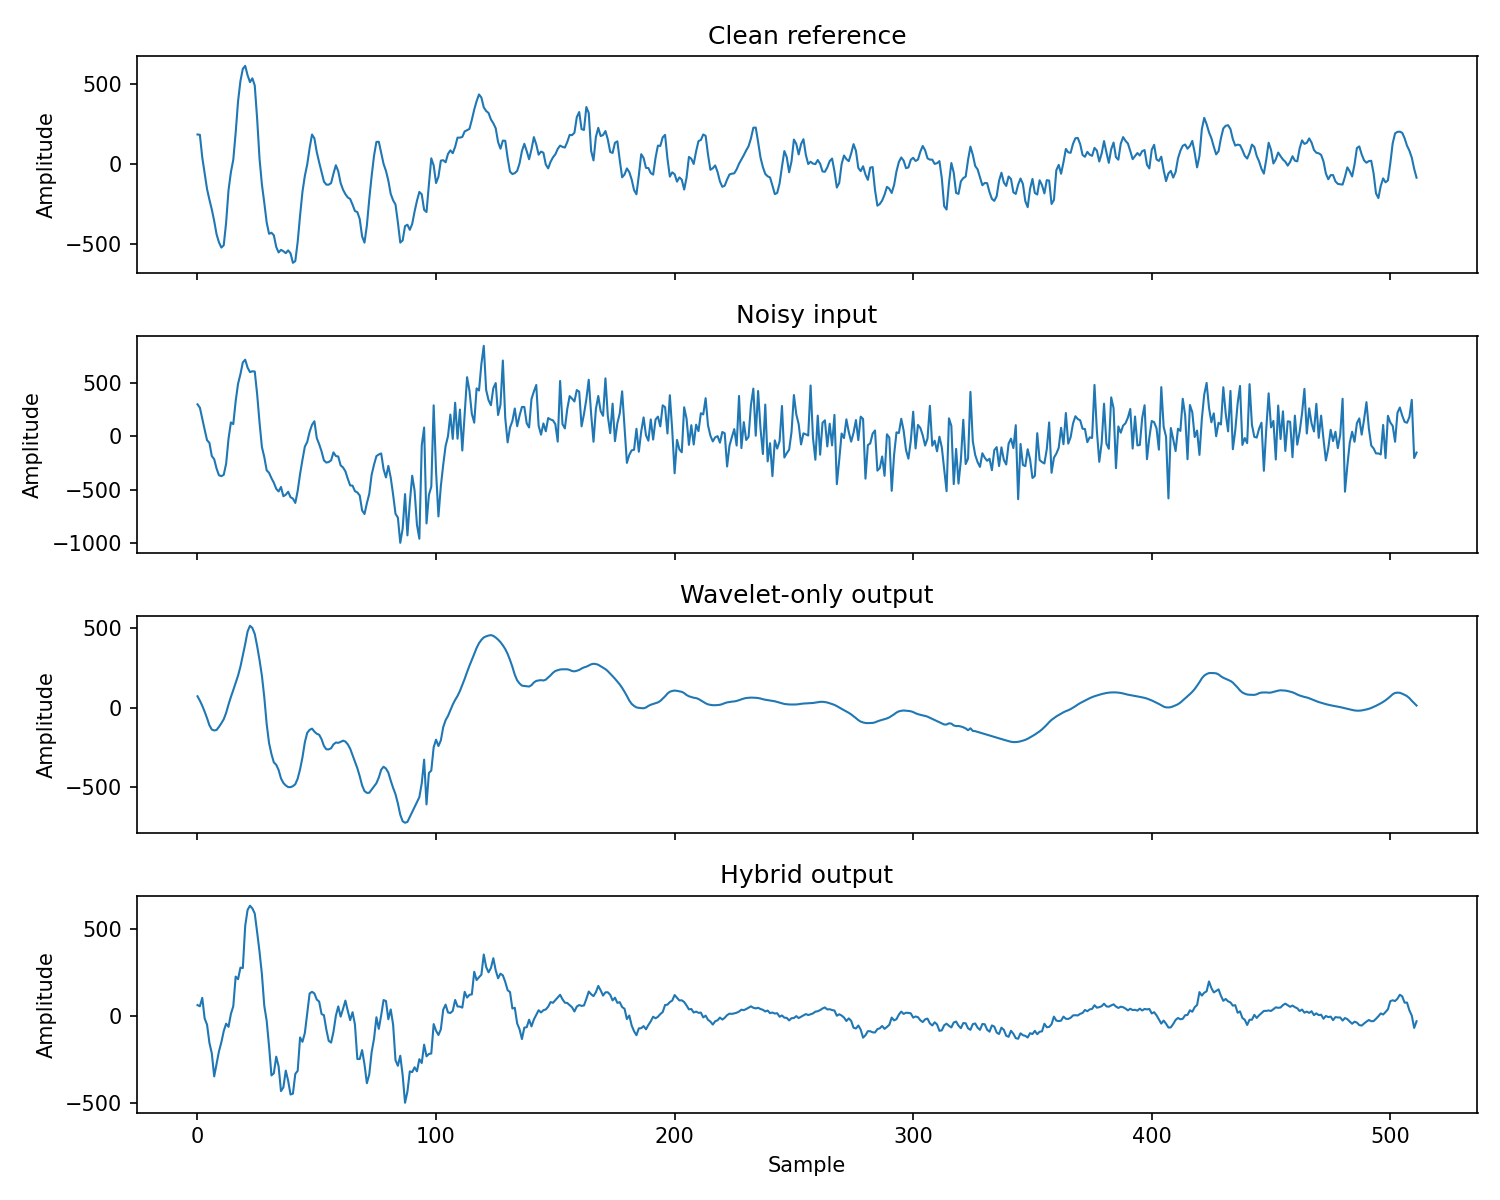
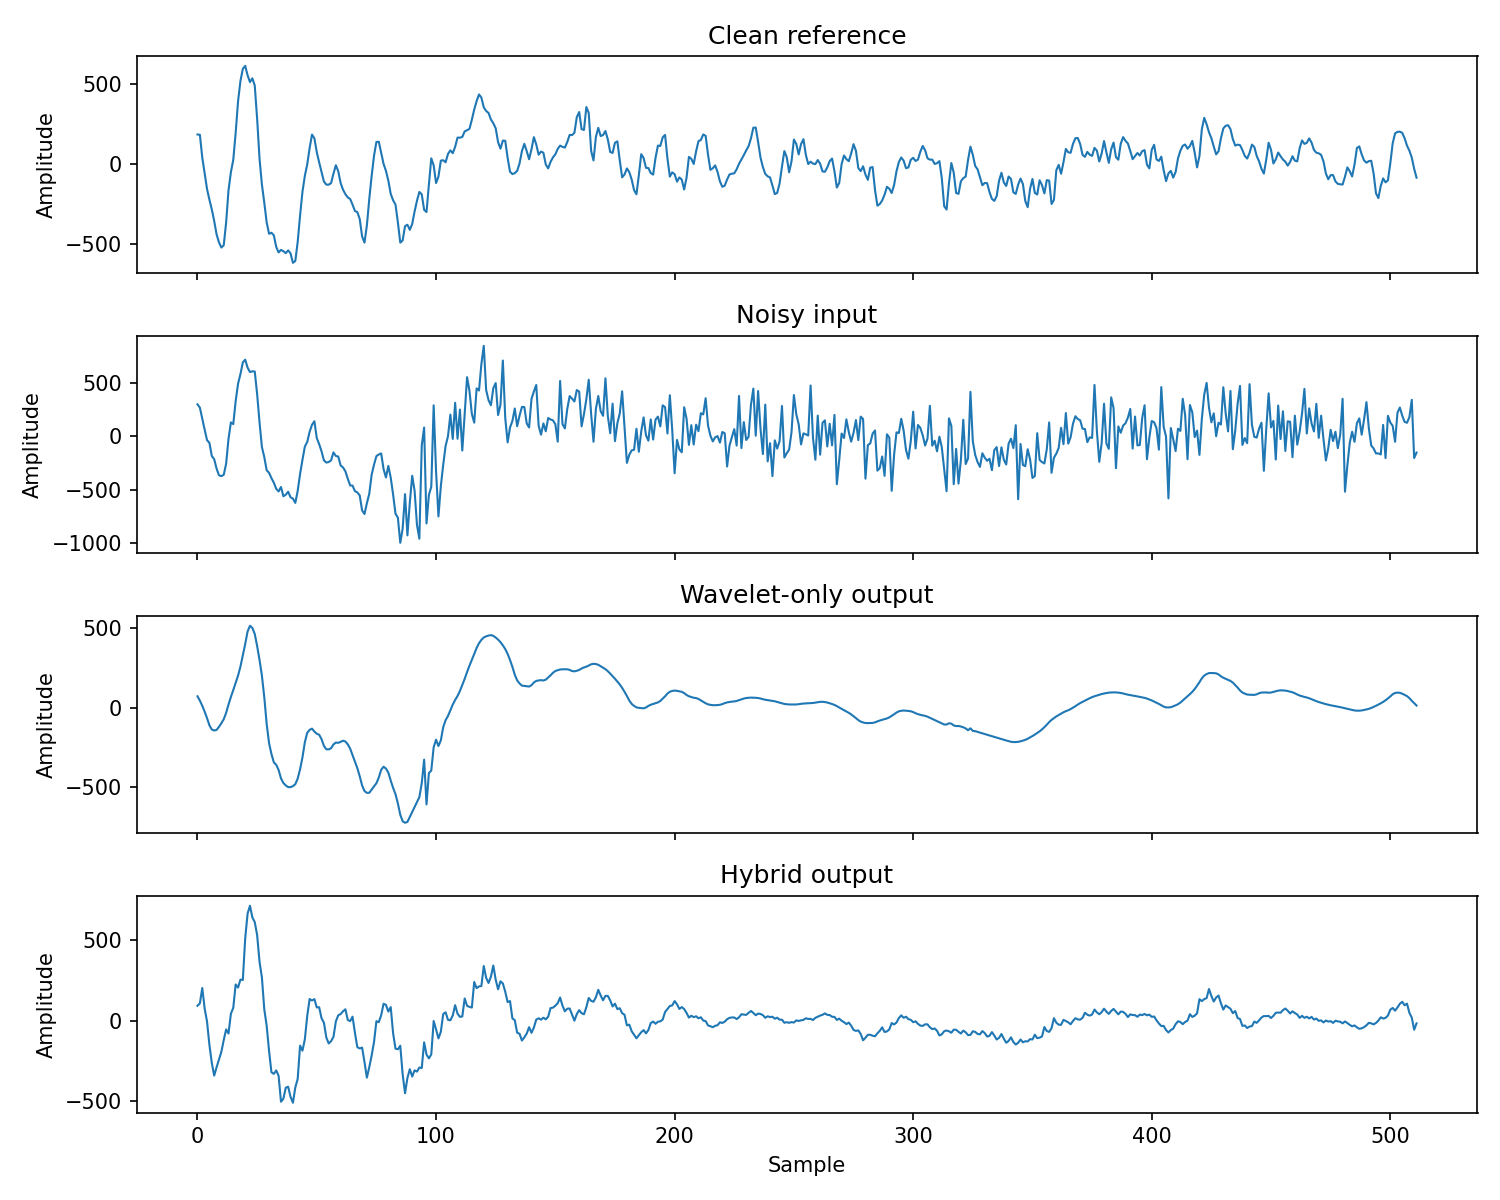
New Revisions

diff --git a/scripts/run_phase2_wavelet_ica_baseline.py b/scripts/run_phase2_wavelet_ica_baseline.py
@@ -30,6 +30,7 @@ from eeg_denoising.wavelet.dwt_denoising import denoise_epochs_dwt  # noqa: E402
 
 
 OUTPUT_PATH = PROJECT_ROOT / "results" / "phase2" / "wavelet_ica_baseline_table.csv"
+PHYSIONET_ICA_PATH = PROJECT_ROOT / "results" / "phase2" / "physionet_ica_baseline_table.csv"
 
 
 def main() -> int:
@@ -81,11 +82,18 @@ def main() -> int:
         }
     )
 
+    physionet_rows = []
     if not args.skip_physionet_ica:
-        rows.append(run_physionet_ica_row(args))
+        physionet_row = run_physionet_ica_row(args)
+        rows.append(physionet_row)
+        physionet_rows.append(physionet_row)
 
     pd.DataFrame(rows).to_csv(OUTPUT_PATH, index=False)
+    if physionet_rows:
+        pd.DataFrame(physionet_rows).to_csv(PHYSIONET_ICA_PATH, index=False)
     print(f"Created {OUTPUT_PATH}")
+    if physionet_rows:
+        print(f"Created {PHYSIONET_ICA_PATH}")
 
     return 0
 
@@ -106,6 +114,14 @@ def run_physionet_ica_row(args: argparse.Namespace) -> dict[str, object]:
             "rmse": "",
             "rrmse": "",
             "epochs_used": "",
+            "subjects_processed": 0,
+            "subject_ids": "",
+            "channels": "",
+            "samples_processed": "",
+            "ica_components_estimated": "",
+            "artifact_components_identified": "",
+            "excluded_components": "",
+            "processing_time_seconds": "",
             "status": "skipped",
             "notes": str(error),
         }
@@ -114,6 +130,8 @@ def run_physionet_ica_row(args: argparse.Namespace) -> dict[str, object]:
         physionet["raw"],
         duration_seconds=args.physionet_ica_seconds,
     )
+    edf_file = Path(physionet["file"])
+    subject_id = edf_file.parent.name
 
     return {
         "dataset": "PhysioNet Motor Imagery",
@@ -126,6 +144,14 @@ def run_physionet_ica_row(args: argparse.Namespace) -> dict[str, object]:
         "rmse": "",
         "rrmse": "",
         "epochs_used": "",
+        "subjects_processed": 1,
+        "subject_ids": subject_id,
+        "channels": physionet["channels"],
+        "samples_processed": result.n_samples,
+        "ica_components_estimated": result.n_components,
+        "artifact_components_identified": len(result.excluded_components),
+        "excluded_components": str(result.excluded_components),
+        "processing_time_seconds": round(result.processing_time_seconds, 6),
         "status": result.status,
         "notes": (
             f"{result.message} Excluded components: "
@@ -147,4 +173,3 @@ def parse_args() -> argparse.Namespace:
 
 if __name__ == "__main__":
     raise SystemExit(main())
-

diff --git a/src/eeg_denoising/ica/ica_baseline.py b/src/eeg_denoising/ica/ica_baseline.py
@@ -7,6 +7,7 @@ instead of producing fake metrics.
 
 from __future__ import annotations
 
+import time
 from dataclasses import dataclass
 
 import numpy as np
@@ -19,6 +20,10 @@ class ICAResult:
 
     cleaned_data: np.ndarray | None
     excluded_components: list[int]
+    n_components: int
+    n_channels: int
+    n_samples: int
+    processing_time_seconds: float
     status: str
     message: str
 
@@ -66,9 +71,14 @@ def run_fastica_baseline(
 ) -> ICAResult:
     """Apply MNE FastICA when data is compatible multi-channel EEG."""
     if not is_ica_compatible(data):
+        array = np.asarray(data)
         return ICAResult(
             cleaned_data=None,
             excluded_components=[],
+            n_components=0,
+            n_channels=int(array.shape[0]) if array.ndim == 2 else 0,
+            n_samples=int(array.shape[1]) if array.ndim == 2 else 0,
+            processing_time_seconds=0.0,
             status="skipped",
             message=(
                 "ICA requires multi-channel data. EEGdenoiseNet epoch pairs are "
@@ -94,10 +104,15 @@ def run_fastica_baseline(
         return ICAResult(
             cleaned_data=None,
             excluded_components=[],
+            n_components=0,
+            n_channels=n_channels,
+            n_samples=int(data_array.shape[1]),
+            processing_time_seconds=0.0,
             status="skipped",
             message="Not enough channels for ICA component estimation.",
         )
 
+    start_time = time.perf_counter()
     ica = ICA(
         n_components=component_count,
         method="fastica",
@@ -114,10 +129,15 @@ def run_fastica_baseline(
     if excluded:
         ica.exclude = excluded
         ica.apply(cleaned_raw, verbose=False)
+    processing_time = time.perf_counter() - start_time
 
     return ICAResult(
         cleaned_data=cleaned_raw.get_data(),
         excluded_components=excluded,
+        n_components=int(component_count),
+        n_channels=n_channels,
+        n_samples=int(data_array.shape[1]),
+        processing_time_seconds=float(processing_time),
         status="applied",
         message="ICA applied with FastICA and variance/kurtosis heuristics.",
     )

diff --git a/src/eeg_denoising/wavelet/dwt_denoising.py b/src/eeg_denoising/wavelet/dwt_denoising.py
@@ -11,6 +11,10 @@ import pywt
 
 
 DEFAULT_WAVELET = "db4"
+# For 512-sample EEGdenoiseNet epochs treated at 256 Hz, level 4 gives
+# approximate DWT bands of D1 64-128 Hz, D2 32-64 Hz, D3 16-32 Hz,
+# D4 8-16 Hz, and A4 0-8 Hz. This keeps high-frequency muscle activity
+# in detail bands while preserving low-frequency EEG trends in A4.
 DEFAULT_LEVEL = 4
 DEFAULT_MODE = "soft"
 EPSILON = 1e-12
@@ -77,4 +81,3 @@ def denoise_epochs_dwt(
     ]
 
     return np.asarray(denoised, dtype=float)
-

diff --git a/scripts/create_phase1_artifact_pairs.py b/scripts/create_phase1_artifact_pairs.py
@@ -80,7 +80,7 @@ def main() -> int:
 
     pairs = create_artifact_pairs(clean, eog, emg, snr_levels_db=SNR_LEVELS_DB)
 
-    dataset_rows = [
+    dataset_rows: list[dict] = [
         {
             "dataset": "EEGdenoiseNet",
             "status": "loaded",

diff --git a/scripts/train_phase2_dae.py b/scripts/train_phase2_dae.py
@@ -322,7 +322,7 @@ def set_seed(seed: int) -> None:
 
 def parse_args() -> argparse.Namespace:
     parser = argparse.ArgumentParser(description=__doc__)
-    parser.add_argument("--epochs", type=int, default=5)
+    parser.add_argument("--epochs", type=int, default=10)
     parser.add_argument("--batch-size", type=int, default=64)
     parser.add_argument("--learning-rate", type=float, default=1e-3)
     parser.add_argument("--patience", type=int, default=3)